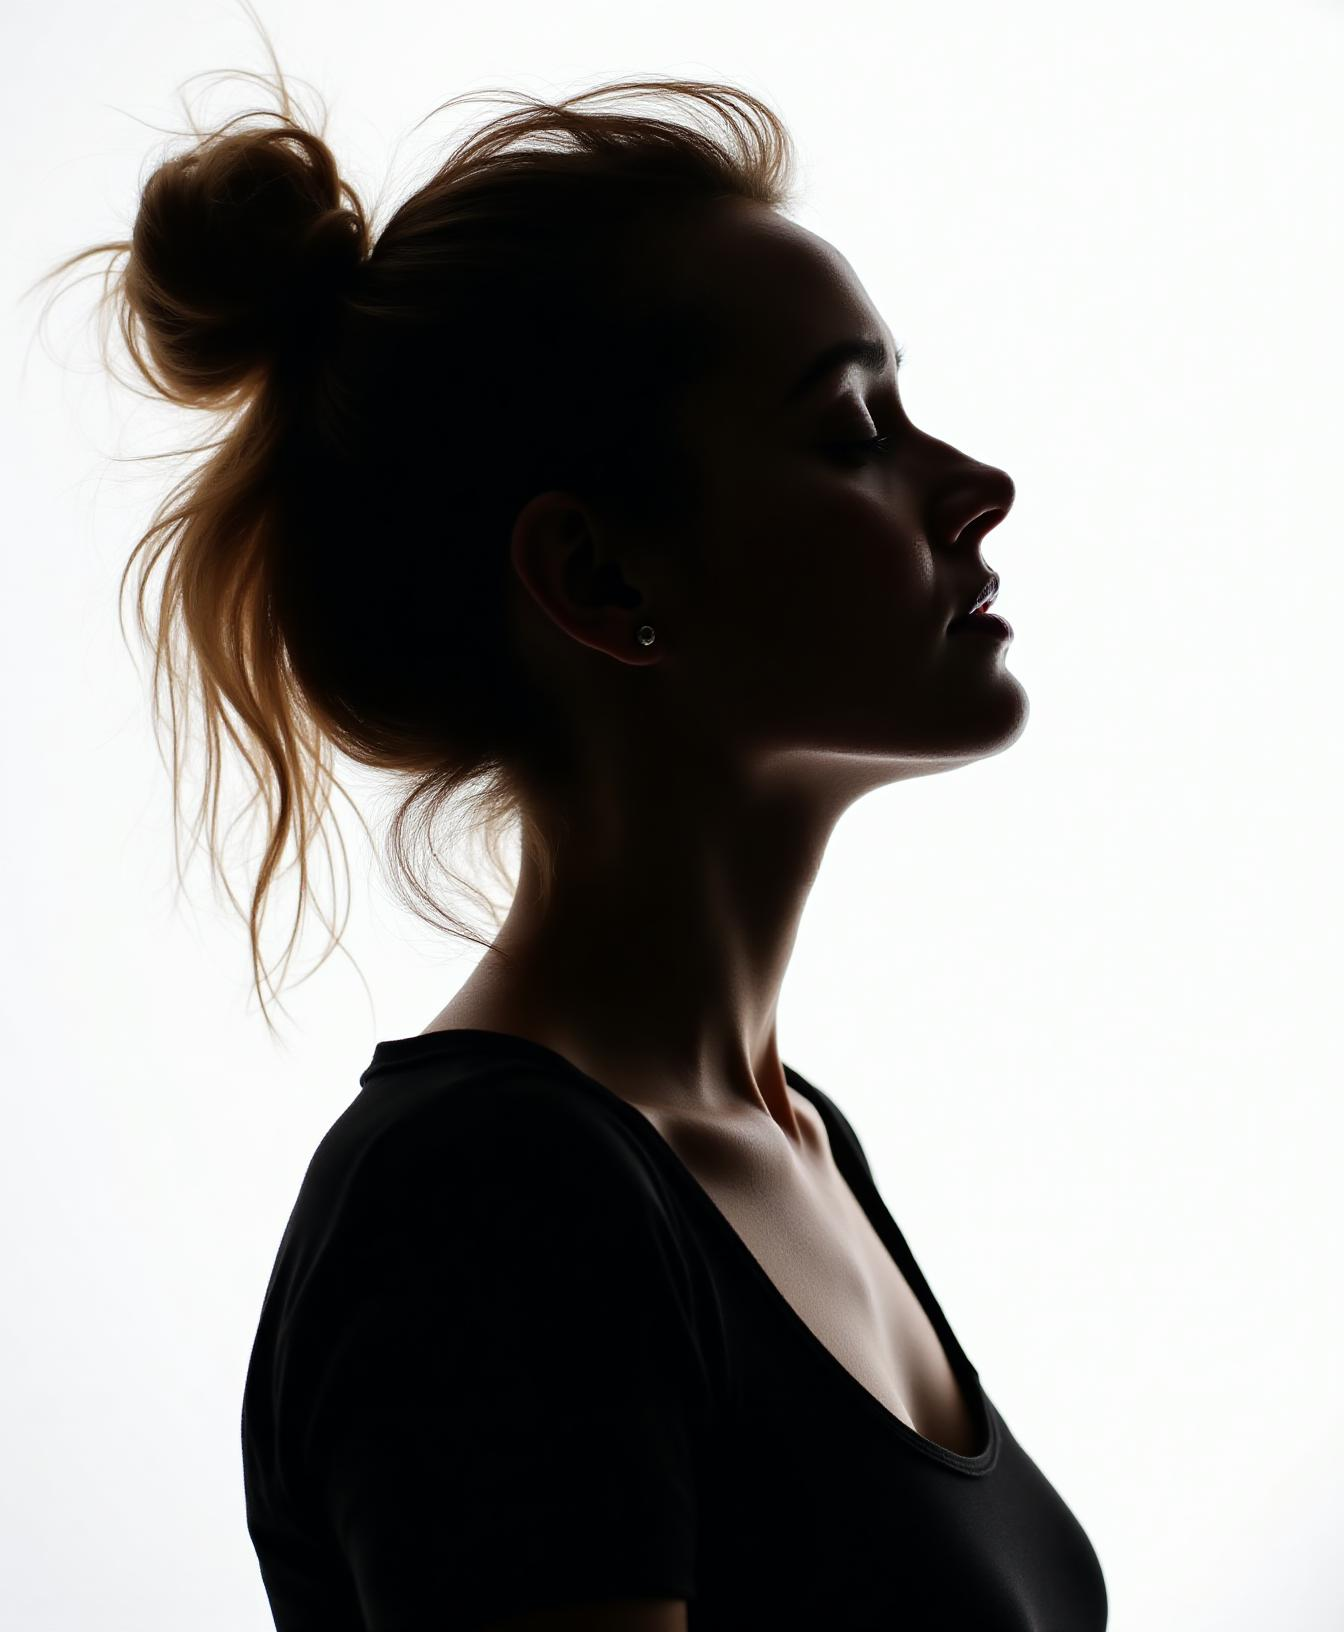
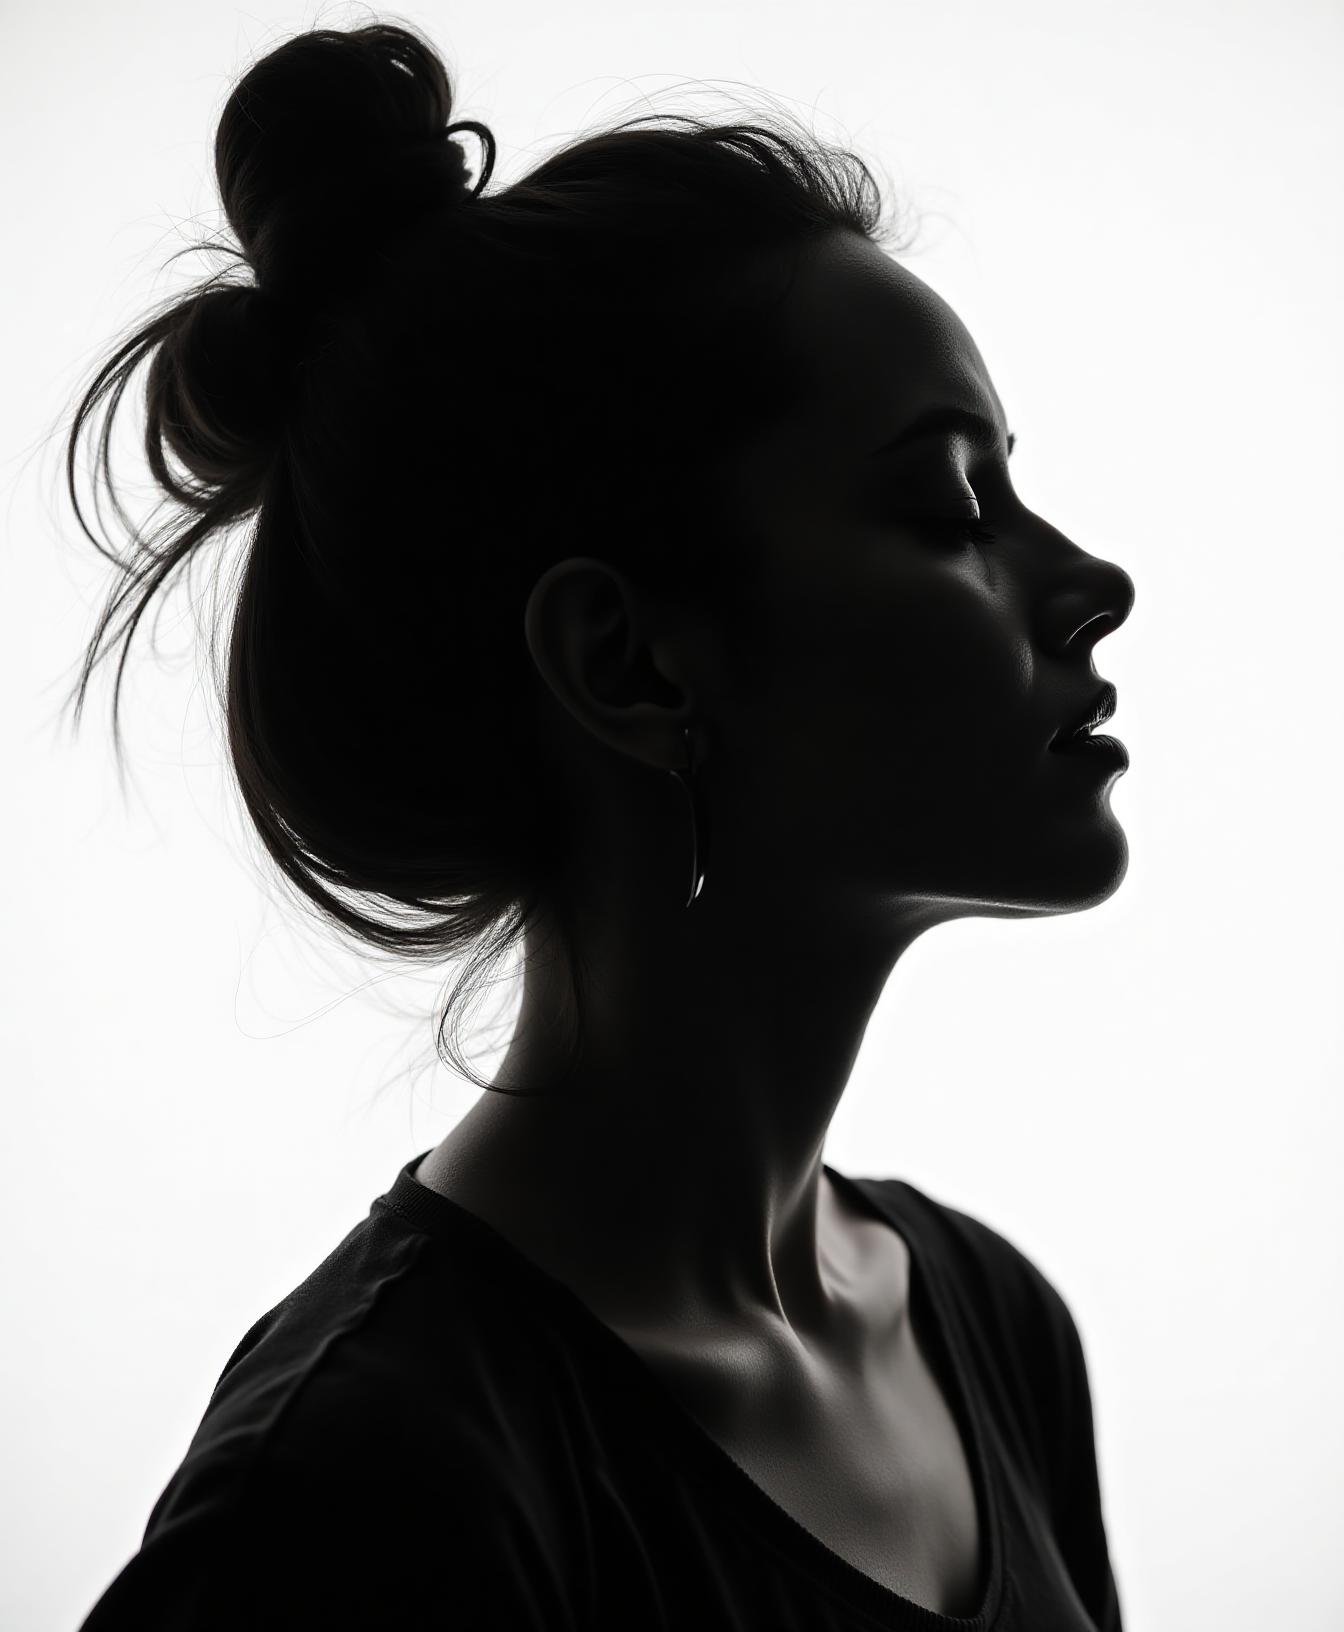
Reverted to commit 88ec986c54751c4c9135fa4aec61533ce8e5fa39

Changed region(s): [[0.0312, 0.0, 0.8438, 1.0], [0.4688, 0.9688, 0.5312, 1.0], [0.4375, 0.375, 0.4688, 0.4062]]

diff --git a/src/components/application/FacilitatorHero.tsx b/src/components/application/FacilitatorHero.tsx
@@ -24,7 +24,7 @@ const descVariants = {
 export default function FacilitatorHero() {
   return (
     <section className="relative bg-white">
-      <div className="relative mx-auto flex max-w-6xl items-end justify-center px-6 pt-12 pb-0 min-h-[60vh] md:min-h-[70vh]">
+      <div className="relative mx-auto flex max-w-6xl items-center justify-center px-6 pt-0 pb-8 md:pb-0 min-h-[70vh]">
 
         {/* Left text — description */}
         <motion.p
@@ -54,7 +54,7 @@ export default function FacilitatorHero() {
 
           {/* Silhouette */}
           <motion.div
-            className="relative z-10 h-[22.4rem] w-[18.56rem] sm:h-[26.88rem] sm:w-[22.4rem] md:h-[32.64rem] md:w-[26.88rem] overflow-hidden"
+            className="relative z-10 h-[28rem] w-[23.2rem] sm:h-[33.6rem] sm:w-[28rem] md:h-[40.8rem] md:w-[33.6rem]"
             style={{ mixBlendMode: 'multiply' }}
             variants={imageVariants}
             initial="hidden"
@@ -63,40 +63,40 @@ export default function FacilitatorHero() {
             <img
               src={silhouette}
               alt="Serene female silhouette with eyes closed"
-              className="h-[125%] w-[125%] max-w-none object-contain object-bottom -ml-[12%] -mt-[5%] grayscale"
+              className="h-full w-full object-contain object-bottom"
             />
           </motion.div>
         </div>
 
         {/* Right text — bold heading */}
         <motion.p
-          className="hidden md:block absolute right-0 lg:right-4 xl:right-8 top-[55%] -translate-y-1/2 text-6xl lg:text-7xl xl:text-8xl font-bold leading-[0.9] tracking-tight text-foreground z-10"
+          className="hidden md:block absolute right-6 lg:right-12 top-[55%] -translate-y-1/2 text-6xl lg:text-7xl xl:text-8xl font-bold leading-[0.9] tracking-tight text-foreground z-10"
           variants={textVariants}
           initial="hidden"
           animate="visible"
         >
           find a<br />Facilitator
         </motion.p>
-      </div>
 
-      {/* Mobile: text below silhouette */}
-      <div className="md:hidden px-6 pb-8 text-center">
-        <motion.p
-          className="text-3xl font-bold text-foreground mb-2 tracking-tight"
-          variants={textVariants}
-          initial="hidden"
-          animate="visible"
-        >
-          find a Facilitator
-        </motion.p>
-        <motion.p
-          className="text-sm text-muted-foreground leading-relaxed max-w-xs mx-auto"
-          variants={descVariants}
-          initial="hidden"
-          animate="visible"
-        >
-          Connecting you with trained, capacity-based practitioners in jurisdictions where 5-MeO-DMT is permitted.
-        </motion.p>
+        {/* Mobile: text below */}
+        <div className="md:hidden absolute bottom-8 left-0 right-0 px-6 text-center z-10">
+          <motion.p
+            className="text-3xl font-bold text-foreground mb-2 tracking-tight"
+            variants={textVariants}
+            initial="hidden"
+            animate="visible"
+          >
+            find a Facilitator
+          </motion.p>
+          <motion.p
+            className="text-sm text-muted-foreground leading-relaxed max-w-xs mx-auto"
+            variants={descVariants}
+            initial="hidden"
+            animate="visible"
+          >
+            Connecting you with trained, capacity-based practitioners in jurisdictions where 5-MeO-DMT is permitted.
+          </motion.p>
+        </div>
       </div>
     </section>
   );

diff --git a/src/components/application/ApplyHero.tsx b/src/components/application/ApplyHero.tsx
@@ -24,7 +24,7 @@ const descVariants = {
 export default function ApplyHero() {
   return (
     <section className="relative bg-white">
-      <div className="relative mx-auto flex max-w-6xl items-center justify-center px-6 pt-0 pb-0 min-h-[60vh] md:min-h-[70vh] md:pb-0">
+      <div className="relative mx-auto flex max-w-6xl items-center justify-center px-6 pt-0 pb-8 md:pb-0 min-h-[70vh]">
 
         {/* Left text — description */}
         <motion.p
@@ -70,33 +70,33 @@ export default function ApplyHero() {
 
         {/* Right text — bold heading */}
         <motion.p
-          className="hidden md:block absolute right-0 lg:right-4 xl:right-8 top-[55%] -translate-y-1/2 text-6xl lg:text-7xl xl:text-8xl font-bold leading-[0.9] tracking-tight text-foreground z-10"
+          className="hidden md:block absolute right-6 lg:right-12 top-[55%] -translate-y-1/2 text-6xl lg:text-7xl xl:text-8xl font-bold leading-[0.9] tracking-tight text-foreground z-10"
           variants={textVariants}
           initial="hidden"
           animate="visible"
         >
           join<br />StepWise
         </motion.p>
-      </div>
 
-      {/* Mobile: text below silhouette */}
-      <div className="md:hidden px-6 pb-8 text-center">
-        <motion.p
-          className="text-3xl font-bold text-foreground mb-2 tracking-tight"
-          variants={textVariants}
-          initial="hidden"
-          animate="visible"
-        >
-          join StepWise
-        </motion.p>
-        <motion.p
-          className="text-sm text-muted-foreground leading-relaxed max-w-xs mx-auto"
-          variants={descVariants}
-          initial="hidden"
-          animate="visible"
-        >
-          A transformative training in capacity-based, nervous-system-informed psychedelic-assisted therapy practice.
-        </motion.p>
+        {/* Mobile: text below */}
+        <div className="md:hidden absolute bottom-8 left-0 right-0 px-6 text-center z-10">
+          <motion.p
+            className="text-3xl font-bold text-foreground mb-2 tracking-tight"
+            variants={textVariants}
+            initial="hidden"
+            animate="visible"
+          >
+            join StepWise
+          </motion.p>
+          <motion.p
+            className="text-sm text-muted-foreground leading-relaxed max-w-xs mx-auto"
+            variants={descVariants}
+            initial="hidden"
+            animate="visible"
+          >
+            A transformative training in capacity-based, nervous-system-informed psychedelic-assisted therapy practice.
+          </motion.p>
+        </div>
       </div>
     </section>
   );

diff --git a/src/components/application/FloatingLogo.tsx b/src/components/application/FloatingLogo.tsx
@@ -10,9 +10,10 @@ export default function FloatingLogo() {
   const [expanded, setExpanded] = useState(false);
   const location = useLocation();
   const navigate = useNavigate();
-  const isHomePage = location.pathname === '/';
+  const isApplyPage = location.pathname === '/apply';
 
   useEffect(() => {
+    if (isApplyPage) return; // dots-only on /apply
     const threshold = window.innerHeight * 0.65;
 
     const handleScroll = () => {
@@ -22,13 +23,11 @@ export default function FloatingLogo() {
     window.addEventListener('scroll', handleScroll, { passive: true });
     handleScroll();
     return () => window.removeEventListener('scroll', handleScroll);
-  }, []);
+  }, [isApplyPage]);
 
   const handleClick = () => {
-    if (!isHomePage) {
+    if (isApplyPage) {
       navigate('/');
-    } else {
-      window.scrollTo({ top: 0, behavior: 'smooth' });
     }
   };
 
@@ -40,18 +39,20 @@ export default function FloatingLogo() {
       transition={{ duration: 0.6, delay: 0.3, ease: [0.22, 1, 0.36, 1] }}
       onClick={handleClick}
     >
-      {/* Text — slides in/out */}
-      <motion.span
-        className="text-lg md:text-xl font-bold tracking-tight text-foreground overflow-hidden whitespace-nowrap"
-        animate={{
-          width: expanded ? 'auto' : 0,
-          opacity: expanded ? 1 : 0,
-          marginRight: expanded ? 4 : 0,
-        }}
-        transition={{ duration: 0.4, ease: [0.22, 1, 0.36, 1] }}
-      >
-        StepWise
-      </motion.span>
+      {/* Text — slides in/out (hidden on /apply) */}
+      {!isApplyPage && (
+        <motion.span
+          className="text-lg md:text-xl font-bold tracking-tight text-foreground overflow-hidden whitespace-nowrap"
+          animate={{
+            width: expanded ? 'auto' : 0,
+            opacity: expanded ? 1 : 0,
+            marginRight: expanded ? 4 : 0,
+          }}
+          transition={{ duration: 0.4, ease: [0.22, 1, 0.36, 1] }}
+        >
+          StepWise
+        </motion.span>
+      )}
 
       {/* Dots */}
       <div className="flex items-center gap-1.5">

diff --git a/src/App.tsx b/src/App.tsx
@@ -19,17 +19,8 @@ import NotFound from "./pages/NotFound";
 import ProtectedRoute from "./components/ProtectedRoute";
 
 function ScrollToTop() {
-  const { pathname, hash } = useLocation();
-  useEffect(() => {
-    if (hash) {
-      setTimeout(() => {
-        const el = document.querySelector(hash);
-        if (el) el.scrollIntoView({ behavior: 'smooth' });
-      }, 100);
-    } else {
-      window.scrollTo(0, 0);
-    }
-  }, [pathname, hash]);
+  const { pathname } = useLocation();
+  useEffect(() => { window.scrollTo(0, 0); }, [pathname]);
   return null;
 }
 

diff --git a/src/components/application/CommonQuestions.tsx b/src/components/application/CommonQuestions.tsx
@@ -36,7 +36,7 @@ const QUESTIONS = [
 
 export default function CommonQuestions() {
   return (
-    <section id="faq" className="relative bg-[#fafafa] overflow-hidden">
+    <section className="relative bg-[#fafafa] overflow-hidden">
       <AnimatedGridPattern
         numSquares={30}
         maxOpacity={0.12}

diff --git a/src/components/application/SiteFooter.tsx b/src/components/application/SiteFooter.tsx
@@ -4,7 +4,7 @@ const BRAND_COLORS = ['#FFA500', '#FF4500', '#800080'];
 
 const NAV_LINKS = [
   { label: 'Find a Facilitator', href: '/facilitators' },
-  { label: 'Common Questions', href: '/#faq' },
+  { label: 'Common Questions', href: '#faq' },
   { label: 'Apply', href: '/apply' },
 ];
 
